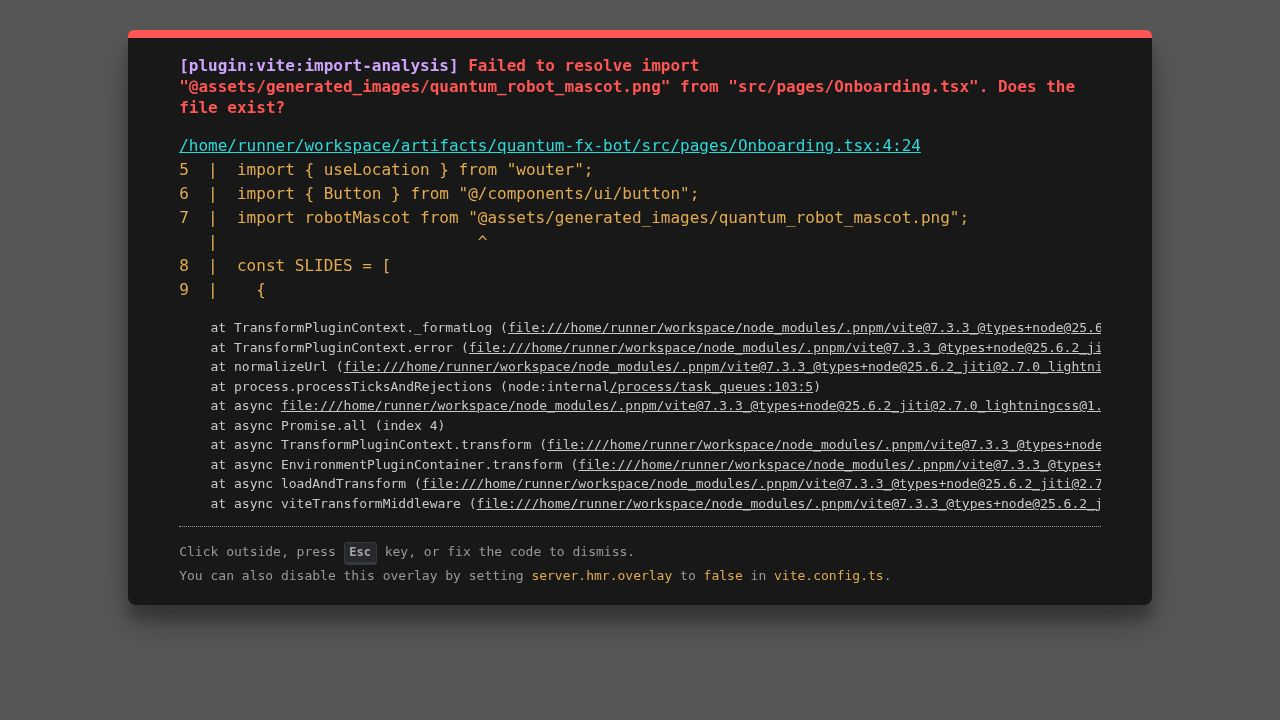
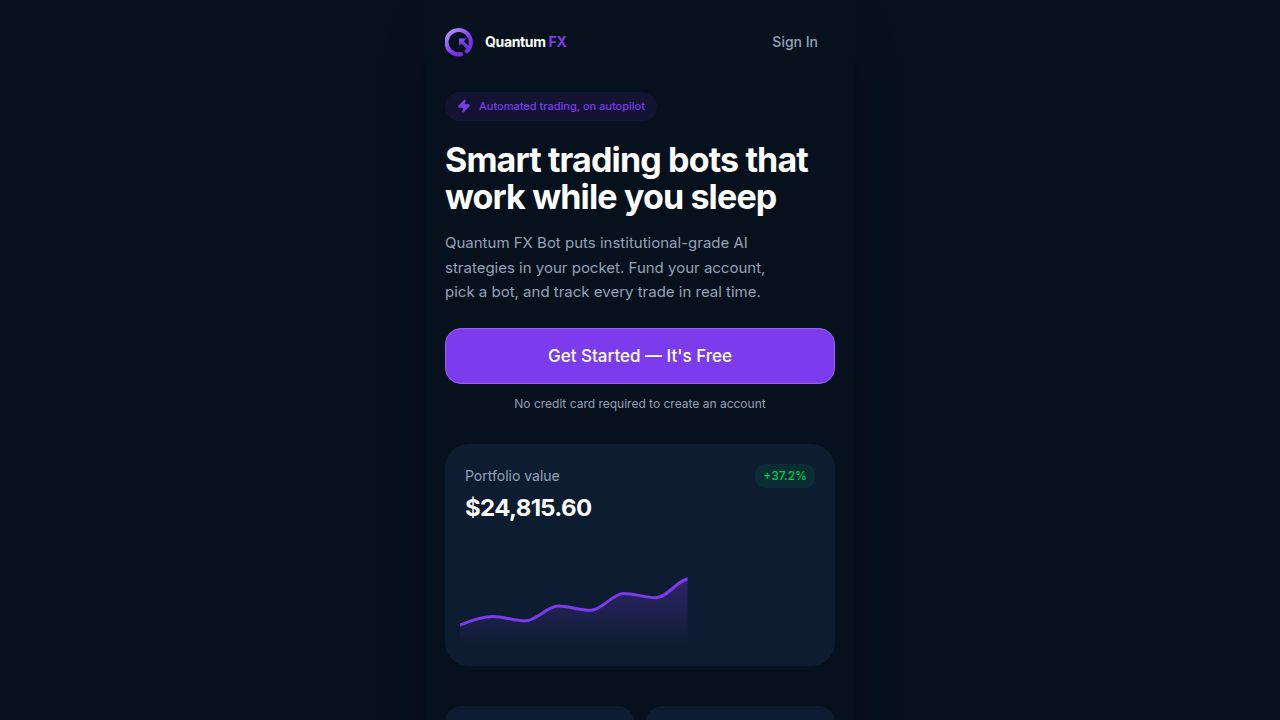
Fix incorrect balance display and pending withdrawal deduction
Updates the dashboard API to fetch all transactions and display the correct available balance, while also ensuring pending withdrawals immediately reduce the displayed balance.

Replit-Commit-Author: Agent
Replit-Commit-Session-Id: a48dd377-6021-4478-97f1-187e512f4dc1
Replit-Commit-Checkpoint-Type: full_checkpoint
Replit-Commit-Event-Id: 50530282-ec84-4606-90d5-8368cefa79ad
Replit-Commit-Screenshot-Url: https://storage.googleapis.com/screenshot-production-us-central1/198aa8d0-ebb7-4acf-aabc-d2932a0a4365/a48dd377-6021-4478-97f1-187e512f4dc1/2hYvGlr
Replit-Helium-Checkpoint-Created: true

diff --git a/artifacts/api-server/src/routes/dashboard.ts b/artifacts/api-server/src/routes/dashboard.ts
@@ -21,24 +21,32 @@ router.get("/dashboard/summary", async (req, res) => {
   const userBots = await db.select().from(userBotsTable).where(eq(userBotsTable.userId, user.id));
   const activeBots = userBots.filter(b => b.status === "running");
 
-  // Get transactions for balance
+  // Get ALL transactions (not just completed) so pending withdrawals lock funds immediately
   const txns = await db.select().from(transactionsTable).where(
-    and(eq(transactionsTable.userId, user.id), eq(transactionsTable.status, "completed"))
+    eq(transactionsTable.userId, user.id)
   );
-  
+
   let balance = 0;
+  let pendingOut = 0;
   for (const t of txns) {
     const amt = parseFloat(t.amount);
-    if (t.type === "deposit" || t.type === "trade_profit") balance += amt;
-    if (t.type === "withdrawal" || t.type === "trade_loss" || t.type === "bot_purchase") balance -= amt;
+    if (t.status === "completed") {
+      if (t.type === "deposit" || t.type === "trade_profit") balance += amt;
+      if (t.type === "withdrawal" || t.type === "trade_loss" || t.type === "bot_purchase") balance -= amt;
+    }
+    // Pending withdrawals & purchases lock funds so users can't double-spend
+    if (t.status === "pending" && (t.type === "withdrawal" || t.type === "bot_purchase")) {
+      pendingOut += amt;
+    }
   }
 
+  const availableBalance = Math.max(0, balance - pendingOut);
   const todayProfit = activeBots.reduce((sum, b) => sum + parseFloat(b.profitToday), 0);
   const totalEarnings = userBots.reduce((sum, b) => sum + parseFloat(b.profitTotal), 0);
 
   return res.json({
     totalBalance: Math.max(0, balance + totalEarnings),
-    availableBalance: Math.max(0, balance),
+    availableBalance,
     todayProfit,
     todayProfitPercent: todayProfit > 0 ? 5.3 : 0,
     totalEarnings,

diff --git a/artifacts/quantum-fx-bot/src/pages/Dashboard.tsx b/artifacts/quantum-fx-bot/src/pages/Dashboard.tsx
@@ -115,7 +115,7 @@ export default function Dashboard() {
                   <Skeleton className="h-7 w-24" />
                 ) : (
                   <div className="text-xl font-bold text-white tracking-tight">
-                    {formatUSD(summary?.totalBalance)}
+                    {formatUSD(summary?.availableBalance)}
                   </div>
                 )}
                 <div className="text-[11px] text-muted-foreground">— Available Balance</div>